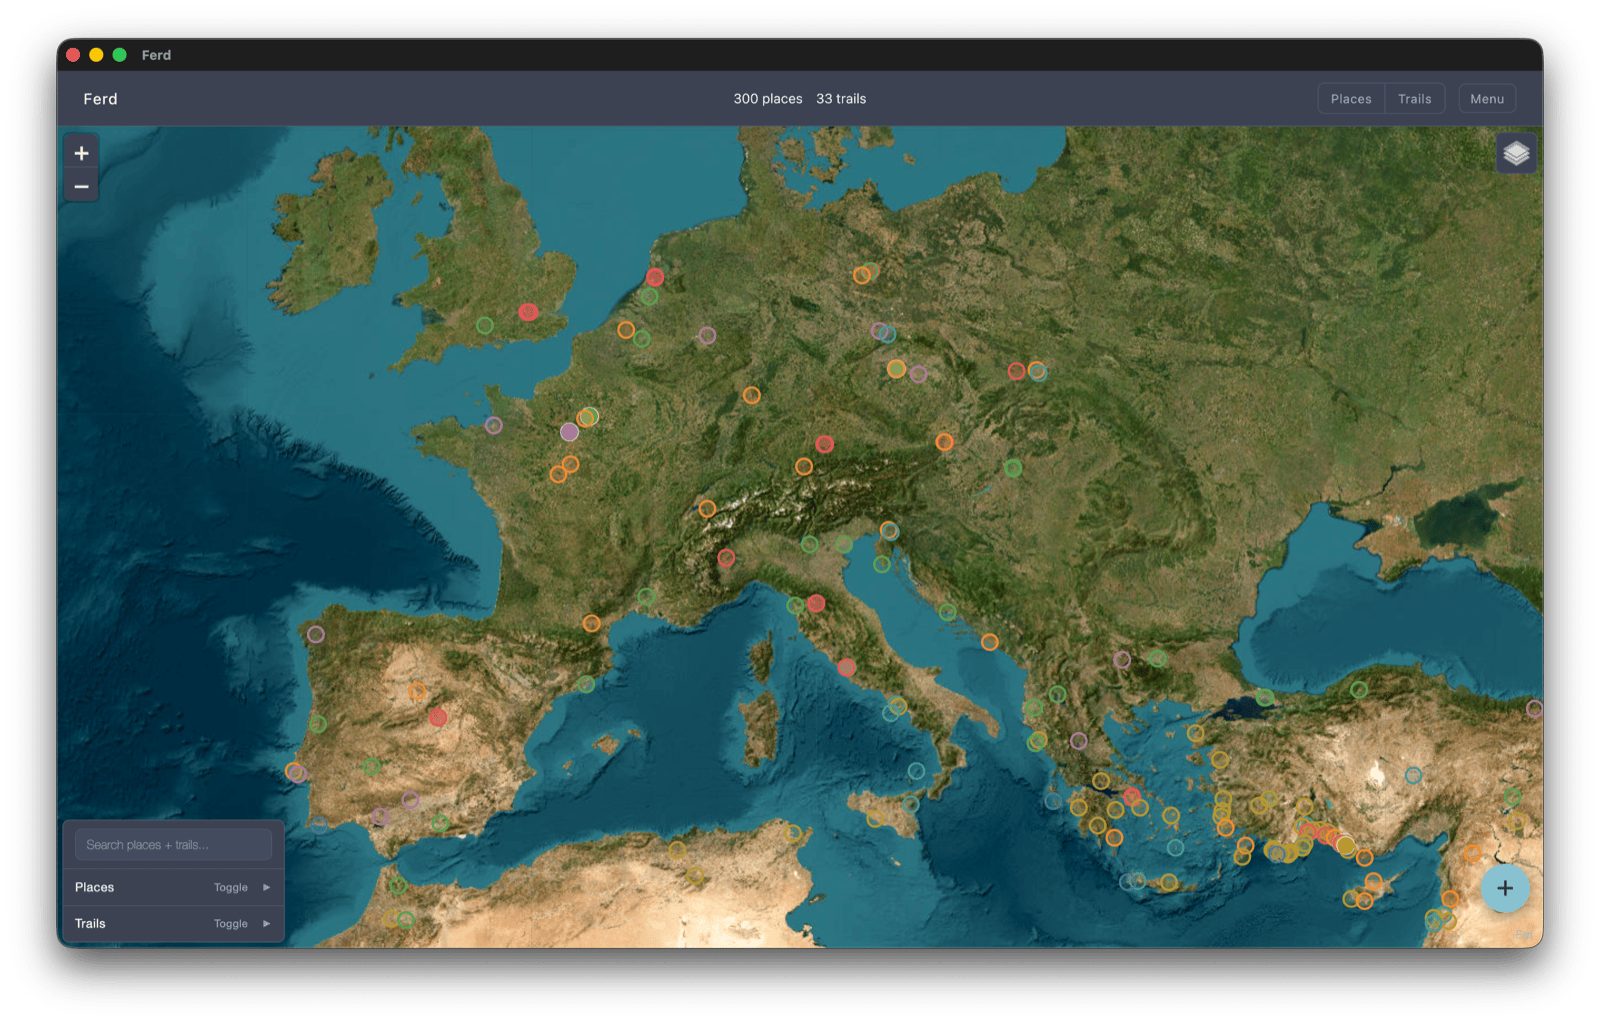
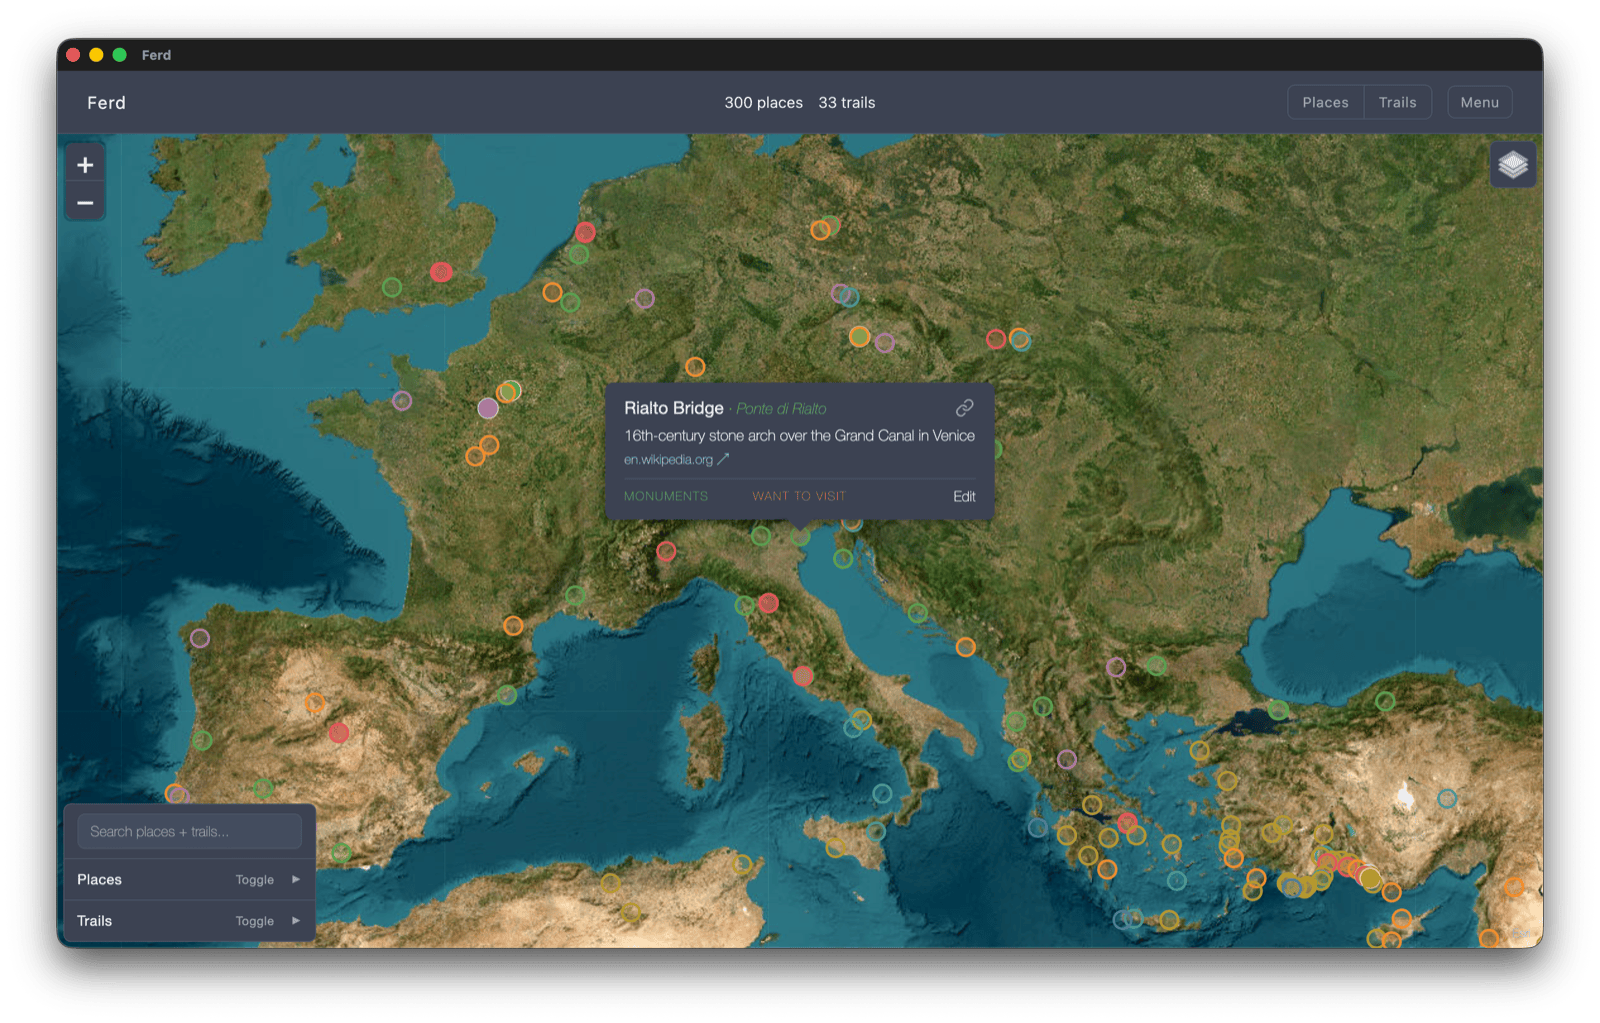
docs(readme): merge Quick start into Install; new header screenshot
Install section now leads with the Python snippet (fastest path) and
links out for Docker, service install, and reverse proxy in one
paragraph instead of repeating across two sections. Header screenshot
swapped (compressed to 738 KB).

diff --git a/README.md b/README.md
@@ -24,7 +24,7 @@ Your own map of where you've been, where you want to go, and the journeys betwee
 - Run places-only, trails-only, or both per deployment.
 - Per-browser settings for tile layer, units, and appearance.
 
-## Quick start
+## Install
 
 ```sh
 git clone https://github.com/polybjorn/ferd.git
@@ -33,18 +33,11 @@ cp tools/config.example.json tools/config.json
 python3 tools/api.py
 ```
 
-Open http://localhost:8091 and register the first account; that user becomes the admin. See [docs/python.md](docs/python.md) for service install, reverse proxy, and pre-seeded credentials.
+Open http://localhost:8091 and register the first account; that user becomes the admin.
 
 **Requirements:** Python 3.9+, a modern browser. No build step, no Node, no database server (SQLite file).
 
-## Install
-
-Two ways to run it, pick whichever fits:
-
-- **[Docker](docs/docker.md)** - one container, one folder of data on the host. Good if you want isolation or already use Docker.
-- **[Python](docs/python.md)** - two commands, no container. Instant if you have Python 3.9+.
-
-For a public domain, front either with any reverse proxy. Sample configs in `deploy/`.
+Prefer Docker? See [docker.md](docs/docker.md). For service install, reverse proxy, and pre-seeded credentials, see [python.md](docs/python.md). For a public domain, front either with any reverse proxy — sample configs in `deploy/`.
 
 ## Documentation
 